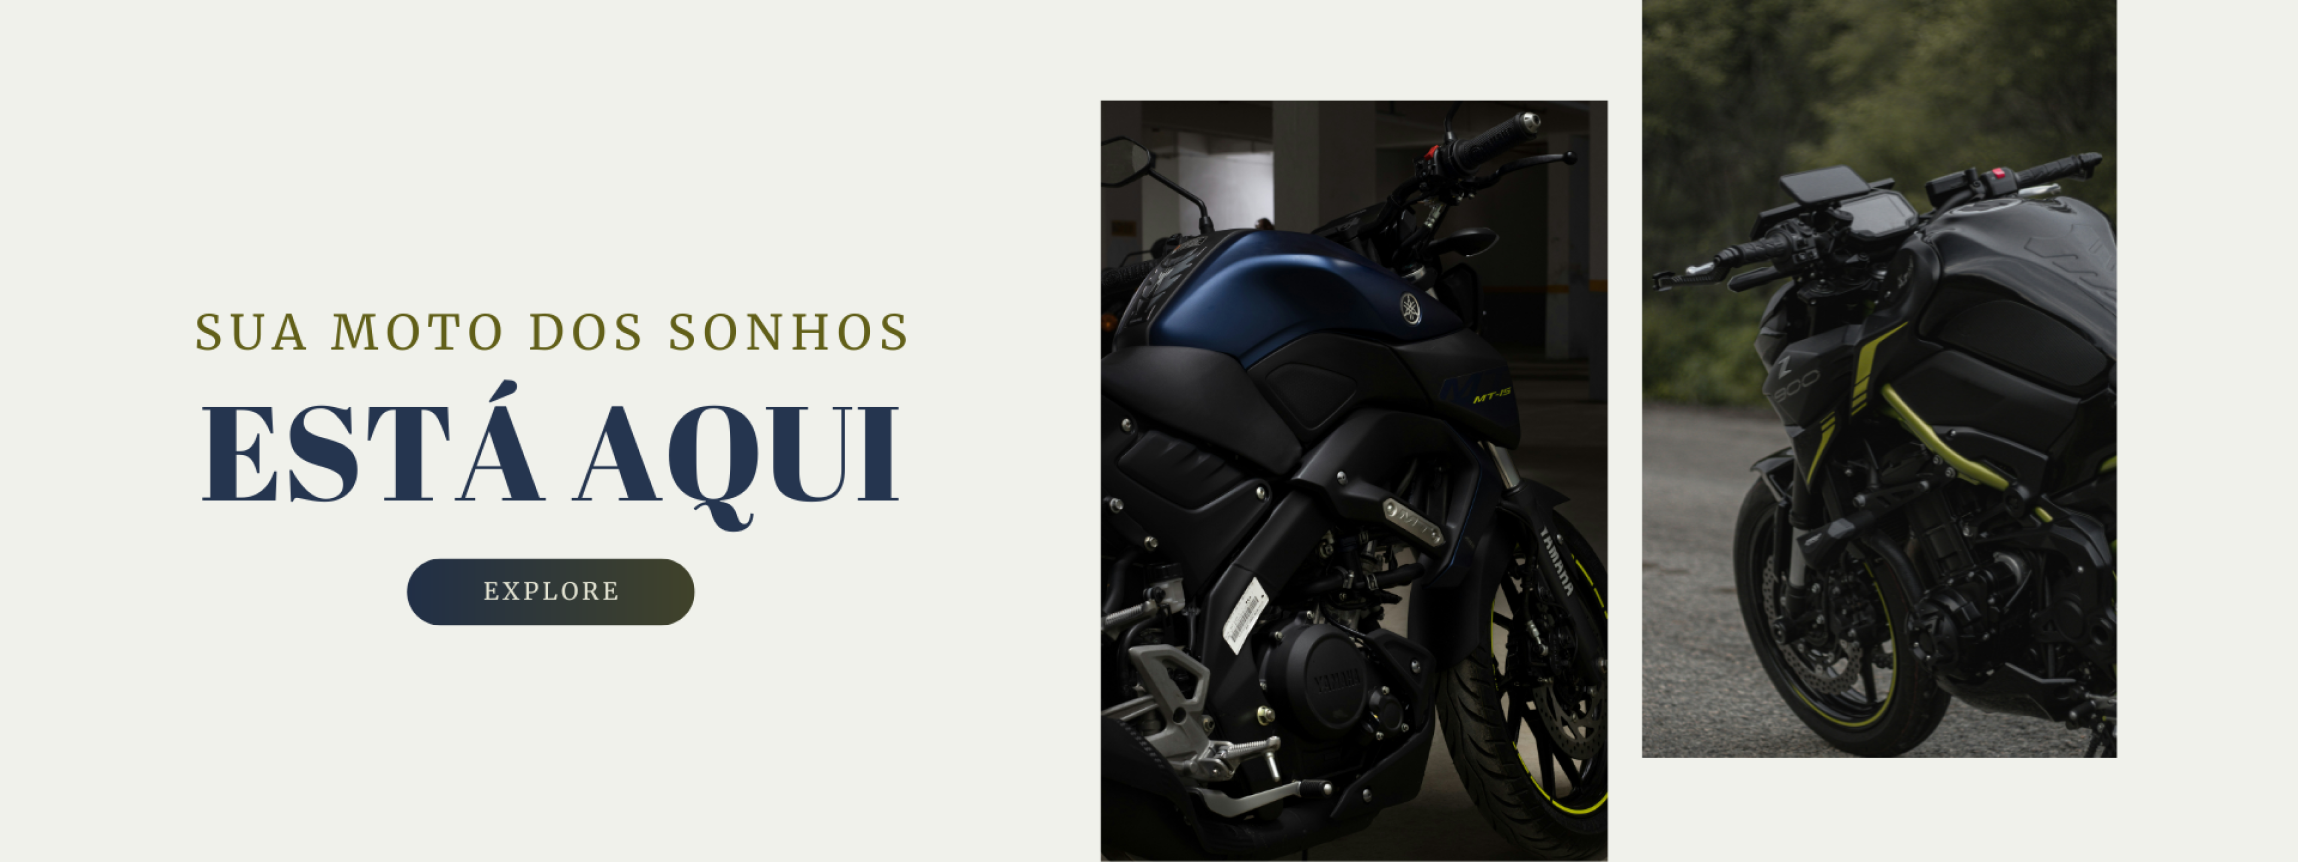
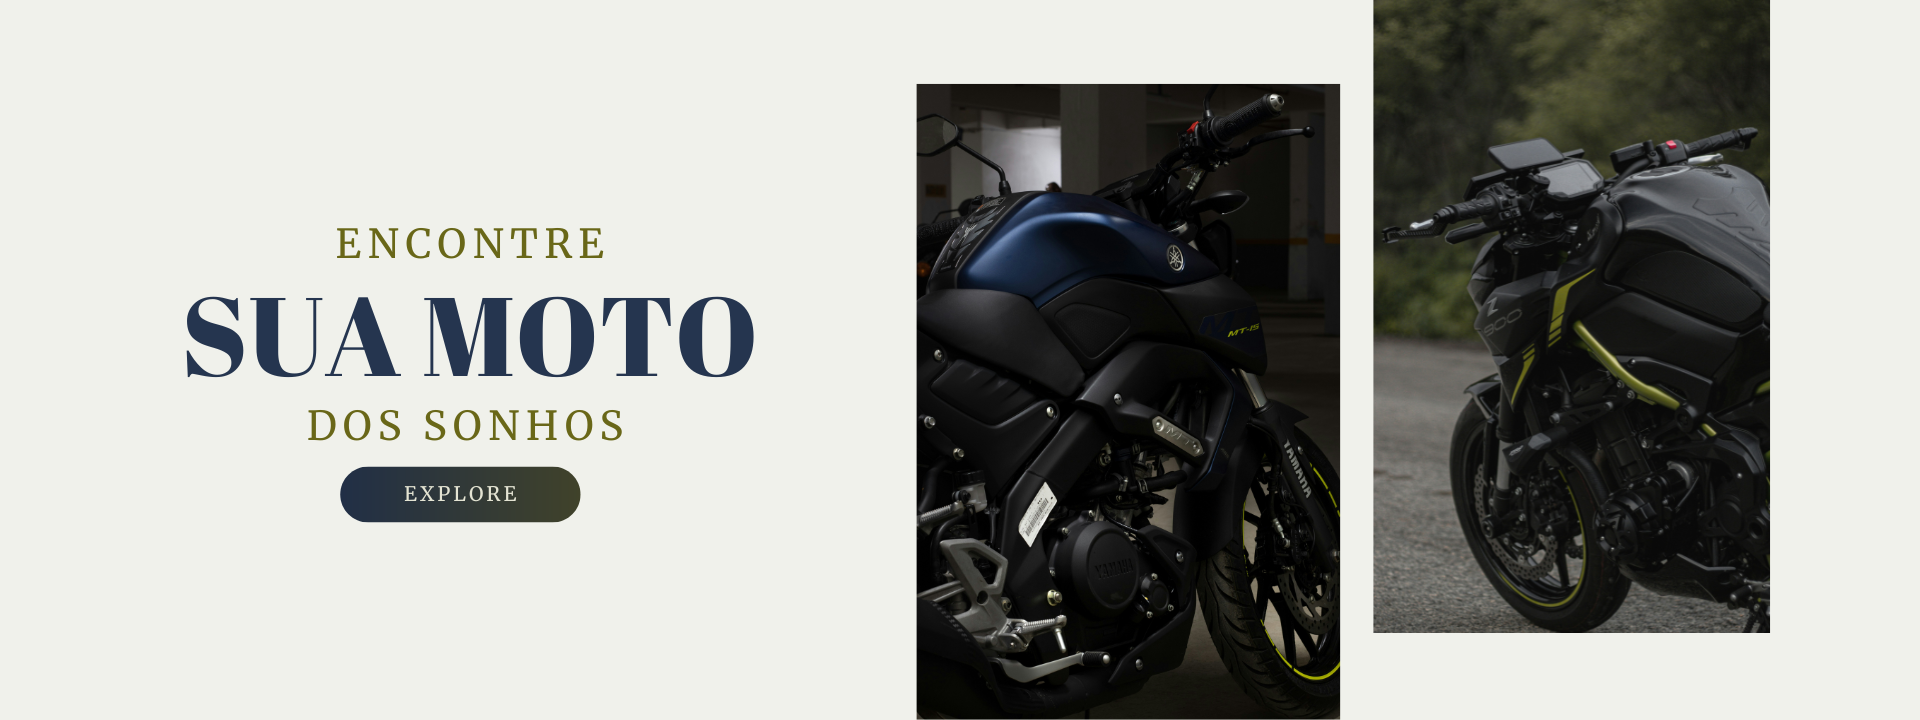
feat: imagem mobile
- imagem da página home para celulares

diff --git a/motoverse/src/app/app.component.html b/motoverse/src/app/app.component.html
@@ -6,7 +6,7 @@
         <a [routerLink]="['/']" routerLinkActive="font-bold" class="hover:font-bold transition duration-1000">Início</a>
         <a [routerLink]="['estoque']" routerLinkActive="font-bold" class="hover:font-bold">Estoque</a>
         <ng-container *ngIf="authService.isAdmin()">
-          <a [routerLink]="['cadastro-produto']" routerLinkActive="font-bold" class="hover:font-bold">Cadastrar Moto</a>
+          <a [routerLink]="['cadastro-produtos']" routerLinkActive="font-bold" class="hover:font-bold">Cadastrar Moto</a>
           <a [routerLink]="['excluir-motos']" routerLinkActive="font-bold" class="hover:font-bold">Gerenciar Motos</a>
         </ng-container>
       </nav>
@@ -26,22 +26,29 @@
   </div>
 </header>
 
-<router-outlet />
+<main class="">
+  <router-outlet />
+</main>
 
-<footer class="bg-[var(--color-quatro)] text-[var(--color-um)] w-full py-6">
-  <div class="max-w-7xl mx-auto flex flex-col md:flex-row items-center md:items-start justify-between gap-6 md:gap-0 px-4 md:px-6">
-    <div class="text-center md:text-left">
+
+<footer class="bg-[var(--color-quatro)] text-[var(--color-um)] w-full py-6 mt-4">
+  <div class="max-w-7xl mx-auto flex flex-col sm:flex-row items-center sm:items-start justify-between gap-6 px-4 sm:px-6 text-center sm:text-left">
+    
+    <div>
       <p class="font-semibold">Fale Conosco</p>
       <p>atendimento&#64;motoverse.com</p>
       <a href="https://wa.me/5531973071453" target="_blank">+55 (31) 97307-1453</a> | 
       <a href="https://wa.me/5531992980611" target="_blank">(31) 99298-0611</a>
     </div>
-    <div class="text-center md:text-left">
+
+    <div>
       <p class="font-semibold">Nossas mídias sociais</p>
       <p>Localização</p>
       <p class="text-xs font-bold">
         Rua das Estrelas, 789, Bairro Celestial, 12345-678
       </p>
     </div>
+
   </div>
 </footer>
+

diff --git a/motoverse/src/pages/desc-produtos/desc-produtos.component.html b/motoverse/src/pages/desc-produtos/desc-produtos.component.html
@@ -2,9 +2,9 @@
   <div class="max-w-7xl w-full mx-auto px-4 pt-12 pb-12">
     <div class="grid grid-cols-1 lg:grid-cols-2 gap-8">
       <div class="flex flex-col items-center">
-        <h2 class="text-2xl text-[var(--color-dois)] text-center mb-4">{{moto.nome}}</h2>
+        <h2 class="text-3xl text-[var(--color-dois)] text-center mb-4">{{moto.nome}}</h2>
         <img [src]="moto.imagem" [alt]="moto.nome"
-          class="w-full max-w-md mx-auto object-contain rounded-lg shadow-lg" />
+          class="w-full max-w-md mx-auto object-contain rounded-lg" />
       </div>
       <div class="flex flex-col items-center lg:items-start gap-6">
         <p class="text-[var(--color-dois)] leading-relaxed text-justify">

diff --git a/motoverse/src/pages/home/home.component.html b/motoverse/src/pages/home/home.component.html
@@ -1,6 +1,15 @@
 <section class="flex flex-col items-center justify-center h-[82.5vh]">
-  <a [routerLink]="['estoque']" routerLinkActive="router-link-active" target=" " rel="noopener noreferrer"
-      class="flex justify-center items-center">
-      <img src="images-home/Banner.png" alt="Logo Motoverse" class="px-15 py-15 w-10/12 " />
-  </a>
+  <img 
+  src="images-home/Banner.png" 
+  alt="Logo Motoverse" 
+  class="w-10/12 md:w-11/12 lg:w-full cursor-pointer hidden md:block"
+  [routerLink]="['/estoque']"
+/>
+
+<img 
+  src="images-home/Banner-mobile.png" 
+  alt="Logo Motoverse Mobile" 
+  class="w-full cursor-pointer block md:hidden"
+  [routerLink]="['/estoque']"
+/>
 </section>

diff --git a/motoverse/src/app/services/usuario.service.ts b/motoverse/src/app/services/usuario.service.ts
@@ -10,7 +10,7 @@ export class UsuarioService {
     {
       id: 1,
       nome: 'catarina',
-      cpf: '150.997.286-26',
+      cpf: '150.999.999-99',
       celular: '(31) 97307-1453',
       senha: 'teste123',
       tipo: 'admin'
